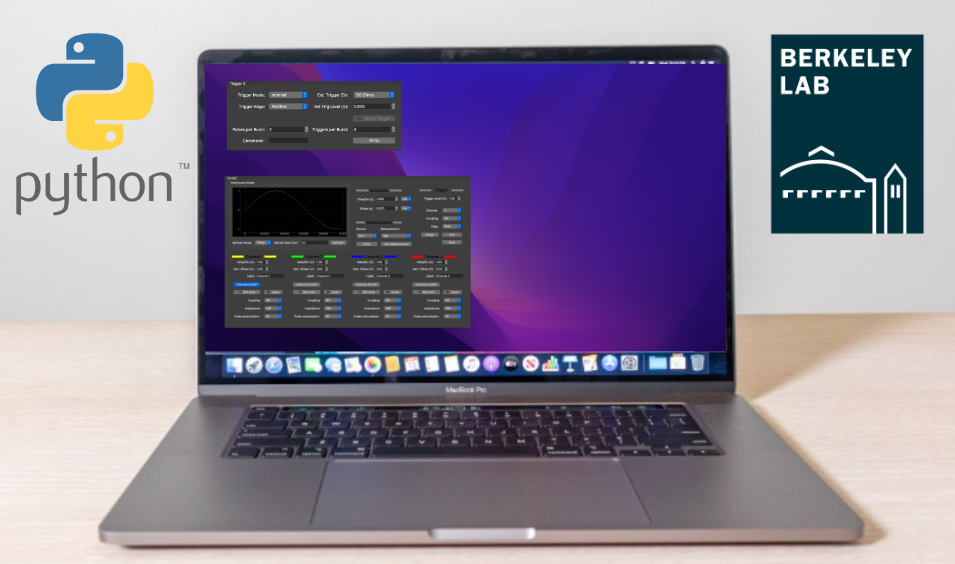
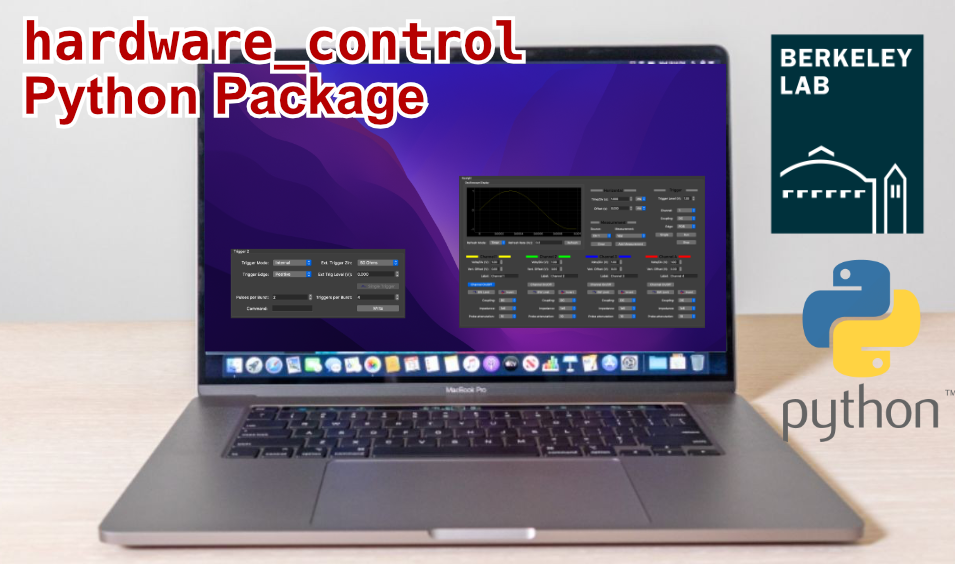
Update

Changed region(s): [[0.2126, 0.3014, 0.7592, 0.6028], [0.0, 0.0301, 0.577, 0.3918], [0.8199, 0.4521, 1.0, 0.7837]]

diff --git a/pages/projects.md b/pages/projects.md
@@ -12,46 +12,39 @@ permalink: "/projects/"
 
 <div class="row t60">
     <div class="medium-6 columns b30">
-        <img src="{{ site.urlimg }}mems_rf.png" alt="">
-        <p>Website: <a href="http://Grant-Giesbrecht.github.io/projects/meqalac/">Compact Linear Accelerator</a></p>
+        <a href="http://Grant-Giesbrecht.github.io/projects/meqalac/"><img src="{{ site.urlimg }}mems_rf.png" alt=""></a>
     </div><!-- /.medium-6.columns -->
     
     <div class="medium-6 columns b30">
-        <img src="{{ site.urlimg }}w7x.png" alt="">
-        <p>Website: <a href="http://Grant-Giesbrecht.github.io/projects/bes/">NSTX-U Beam Emission Spectroscopy</a></p>
+        <a href="http://Grant-Giesbrecht.github.io/projects/bes/"><img src="{{ site.urlimg }}w7x.png" alt=""></a>
     </div><!-- /.medium-6.columns -->
 </div><!-- /.row -->
 
 <div class="row t30">
     <div class="medium-4 columns">
-        <img src="{{ site.urlimg }}fom.png" alt="">
-        <p>Website: <a href="http://Grant-Giesbrecht.github.io/projects/fom/">RF Power Amplifier Figure of Merit</a></p>
+        <a href="http://Grant-Giesbrecht.github.io/projects/fom/"><img src="{{ site.urlimg }}fom.png" alt=""></a>
     </div><!-- /.medium-4.columns -->
 
     <div class="medium-4 columns">
-        <img src="{{ site.urlimg }}hc_thumbnail.png" alt="">
-        <p>Website: <a href="http://Grant-Giesbrecht.github.io/projects/hardwarecontrol/"><em>Hardware Control</em> Python Package</a></p>
+        <a href="http://Grant-Giesbrecht.github.io/projects/hardwarecontrol/"><img src="{{ site.urlimg }}hc_thumbnail.png" alt=""></a>
     </div><!-- /.medium-4.columns -->
 
     <div class="medium-4 columns">
-        <img src="{{ site.urlimg }}swimmer.png" alt="">
-        <p>Website: <a href="http://Grant-Giesbrecht.github.io/projects/bacteria/">Helical Flagellum Fluid Dynamics</a></p>
+        <a href="http://Grant-Giesbrecht.github.io/projects/bacteria/"><img src="{{ site.urlimg }}swimmer.png" alt=""></a>
     </div><!-- /.medium-4.columns -->
 </div><!-- /.row -->
 
 <div class="row t30">
     <div class="medium-4 columns">
-        <img src="{{ site.urlimg }}nasa_thumbnail.png" alt="">
-        <p>Website: <a href="http://Grant-Giesbrecht.github.io/projects/nasa/">NASA Commercial Crew Launch Abort Analysis</a></p>
+        <a href="http://Grant-Giesbrecht.github.io/projects/nasa/"><img src="{{ site.urlimg }}nasa_thumbnail.png" alt=""></a>
     </div><!-- /.medium-4.columns -->
 
     <div class="medium-4 columns">
-        <img src="{{ site.urlimg }}pa_thumbnail.png" alt="">
-        <p>Website: <a href="http://Grant-Giesbrecht.github.io/projects/paportfolio/">RF PA Portfolio</a></p>
+        <a href="http://Grant-Giesbrecht.github.io/projects/paportforlio/"><img src="{{ site.urlimg }}pa_thumbnail.png" alt=""></a>
     </div><!-- /.medium-4.columns -->
 
     <!-- <div class="medium-4 columns">
-        <img src="{{ site.urlimg }}swimmer.png" alt="">
+        <a href="http://Grant-Giesbrecht.github.io/projects/blinkenrechner/"><img src="{{ site.urlimg }}swimmer.png" alt="">
         <p>Website: <a href="https://moritz.sauer.io/">Helical Flagellum Fluid Dynamics</a></p>
     </div><!-- /.medium-4.columns -->
 </div><!-- /.row -->

diff --git a/_posts/projects/2023-01-03-ddf.md b/_posts/projects/2023-01-03-ddf.md
@@ -11,6 +11,14 @@ header:
    image_fullwidth: "header_homepage_13.jpg"
 ---
 
-You'd think that once you've collected and analyzed data, saving and re-reading it would be the easy part. For many types of data such as images, documents, or executables, it <i>is</i> the easy part. So why not for general data?
+You'd think that once you've collected and analyzed data, saving and re-reading it would be the easy part. For many types of data such as images, documents, or executables, it <i>is</i> the easy part. So why is it so complicated for general data, such as a list of numbers?
+
+You're probably thinking this is a solved problem. "There are plenty of formats! CSV, NPY, PKL, HD5, need I go on?". These formats all have their merits. Some are very effient at serializing the data, importing data to and from a specific programming language, or being universally readable. However, when a project or data changes hands, be it to a collaborator or a new generation of researchers, having the data be <i>self evident</i> is critical. Although there are ways to work around this with established formats, such as adding headers in CSVs, this is not standardized and required a customized import system for each format, which is cumbersome and time consuming. This is where DDF comes in.
+
+The purpose of DDF file format is to provide a way to save data that is:
+1. *Human Readable:* Saves data in plain text, so you can read or create this file type with just a text editor, should the need arise. This also makes creating functions for reading and writing DDF files for your programming language of choice much easier than if it were a binary standard. It uses a syntax that is designed to prioritize human-readability of file size.
+2. *Self-Evident:* The data saved in DDF are not just associated with a variable name, but comments can be provided for each variable so that the data can be understood on their own. The format also encourages users to provide a description for the whole file through the use of a header paragraph.
+
+
 
 
